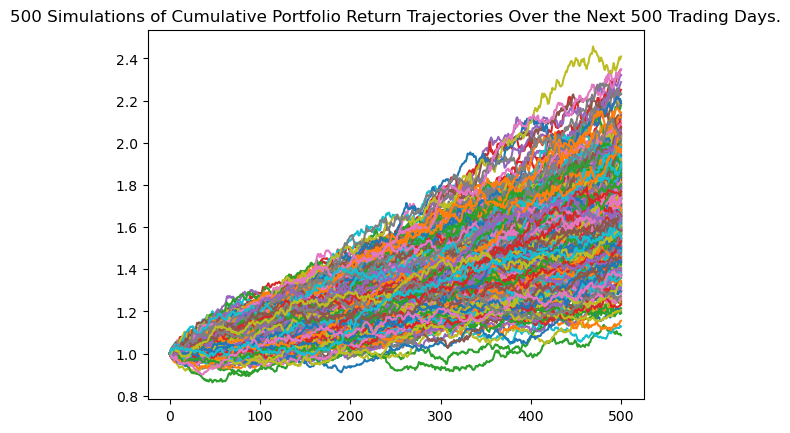
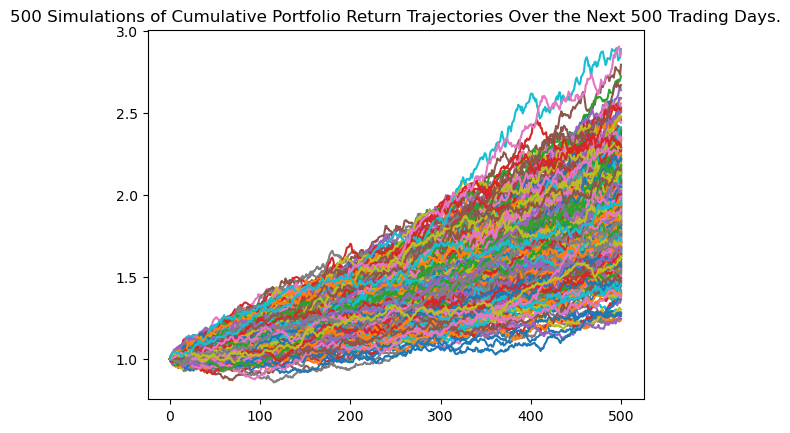
mc changes

diff --git a/app.py b/app.py
@@ -40,12 +40,12 @@ def execute(sector, beta, sharpe, roi):
 
     main_df = filter(main_df, beta_low,beta_high,sharpe_low, sharpe_high,roi_low, roi_high)
     
-    get_beta(main_df)
+    get_beta(stocks_df)
 #RA: Temporarily commented to facilitate montecarlo simulation - need to discuss alternatives to make available multilevel indexes
-    #if len(main_df.columns) >0:
-     #   st.line_chart(main_df)
-    #else:
-     #   st.write("No stocks matched the criteria selected")
+    if len(stocks_df.columns) >0:
+        st.line_chart(stocks_df)
+    else:
+        st.write("No stocks matched the criteria selected")
     
 def get_beta(main_df):
     daily_returns = main_df.pct_change().dropna()
@@ -82,6 +82,10 @@ def get_sector_data(sector):
     """
     #RA: Inserted global varaible (as we will require multi-demensional df for MC analysis
     global closing_prices_df
+    global main_df 
+    global stocks_df
+    stocks_df = pd.DataFrame()
+     
     stocks_to_load = sectors_to_tickers[sector]
     start = (pd.Timestamp.now() - pd.Timedelta(days=365)).isoformat()
     end = pd.Timestamp.now().isoformat()
@@ -96,9 +100,10 @@ def get_sector_data(sector):
     main_df.index.name = 'date'
     #RA: Inserted global varaible & created a copy of main_df(as we will require multi-demensional df for MC analysis
     closing_prices_df = pd.DataFrame(main_df)
+    stocks_df = main_df.copy(deep=True)
     # the y axis is multi-dementional, and this is flattening it.
 #RA: Temporarily commented to facilitate montecarlo simulation - need to discuss alternatives to make available multilevel indexes
-    #main_df.columns = [col[0] for col in main_df.columns.values]
+    stocks_df.columns = [col[0] for col in main_df.columns.values]
     #closing_prices_df.columns = pd.MultiIndex.from_product([closing_prices_df.columns, ['closing']])
     return main_df
 
